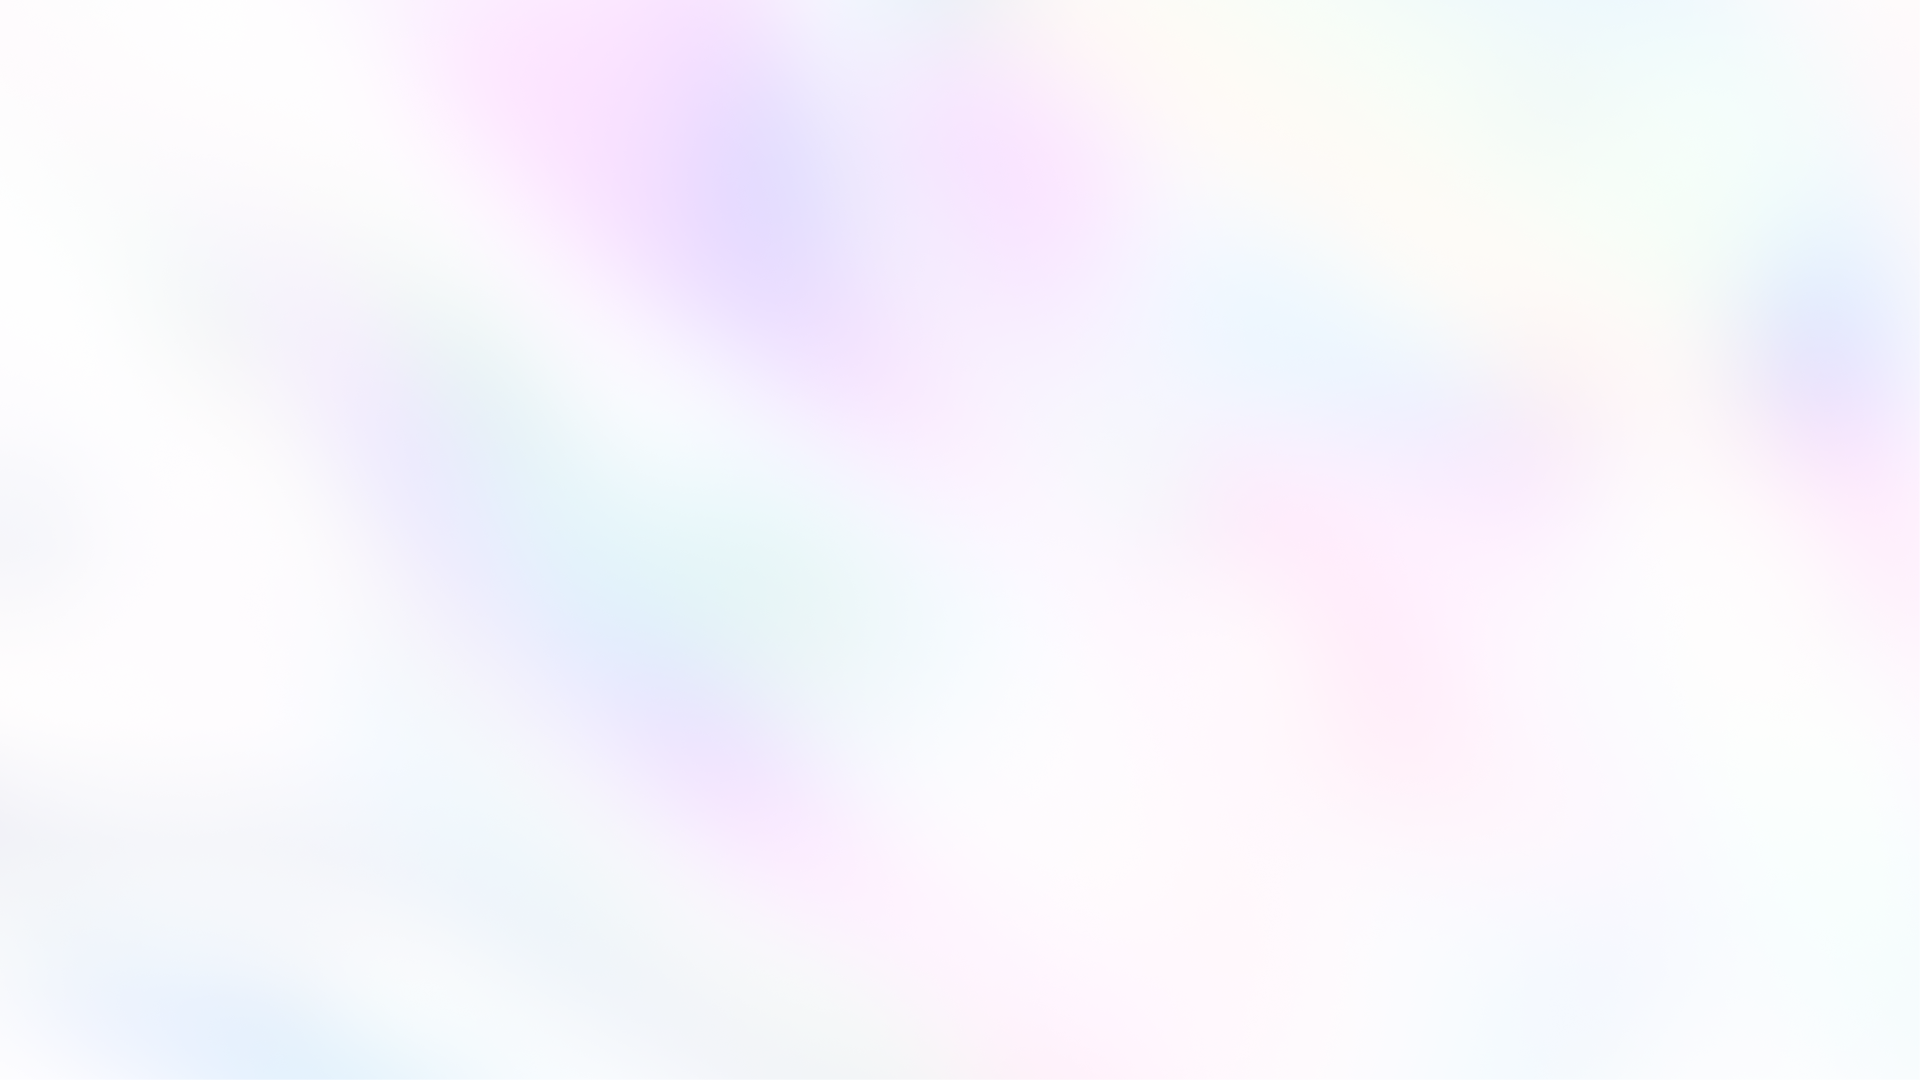
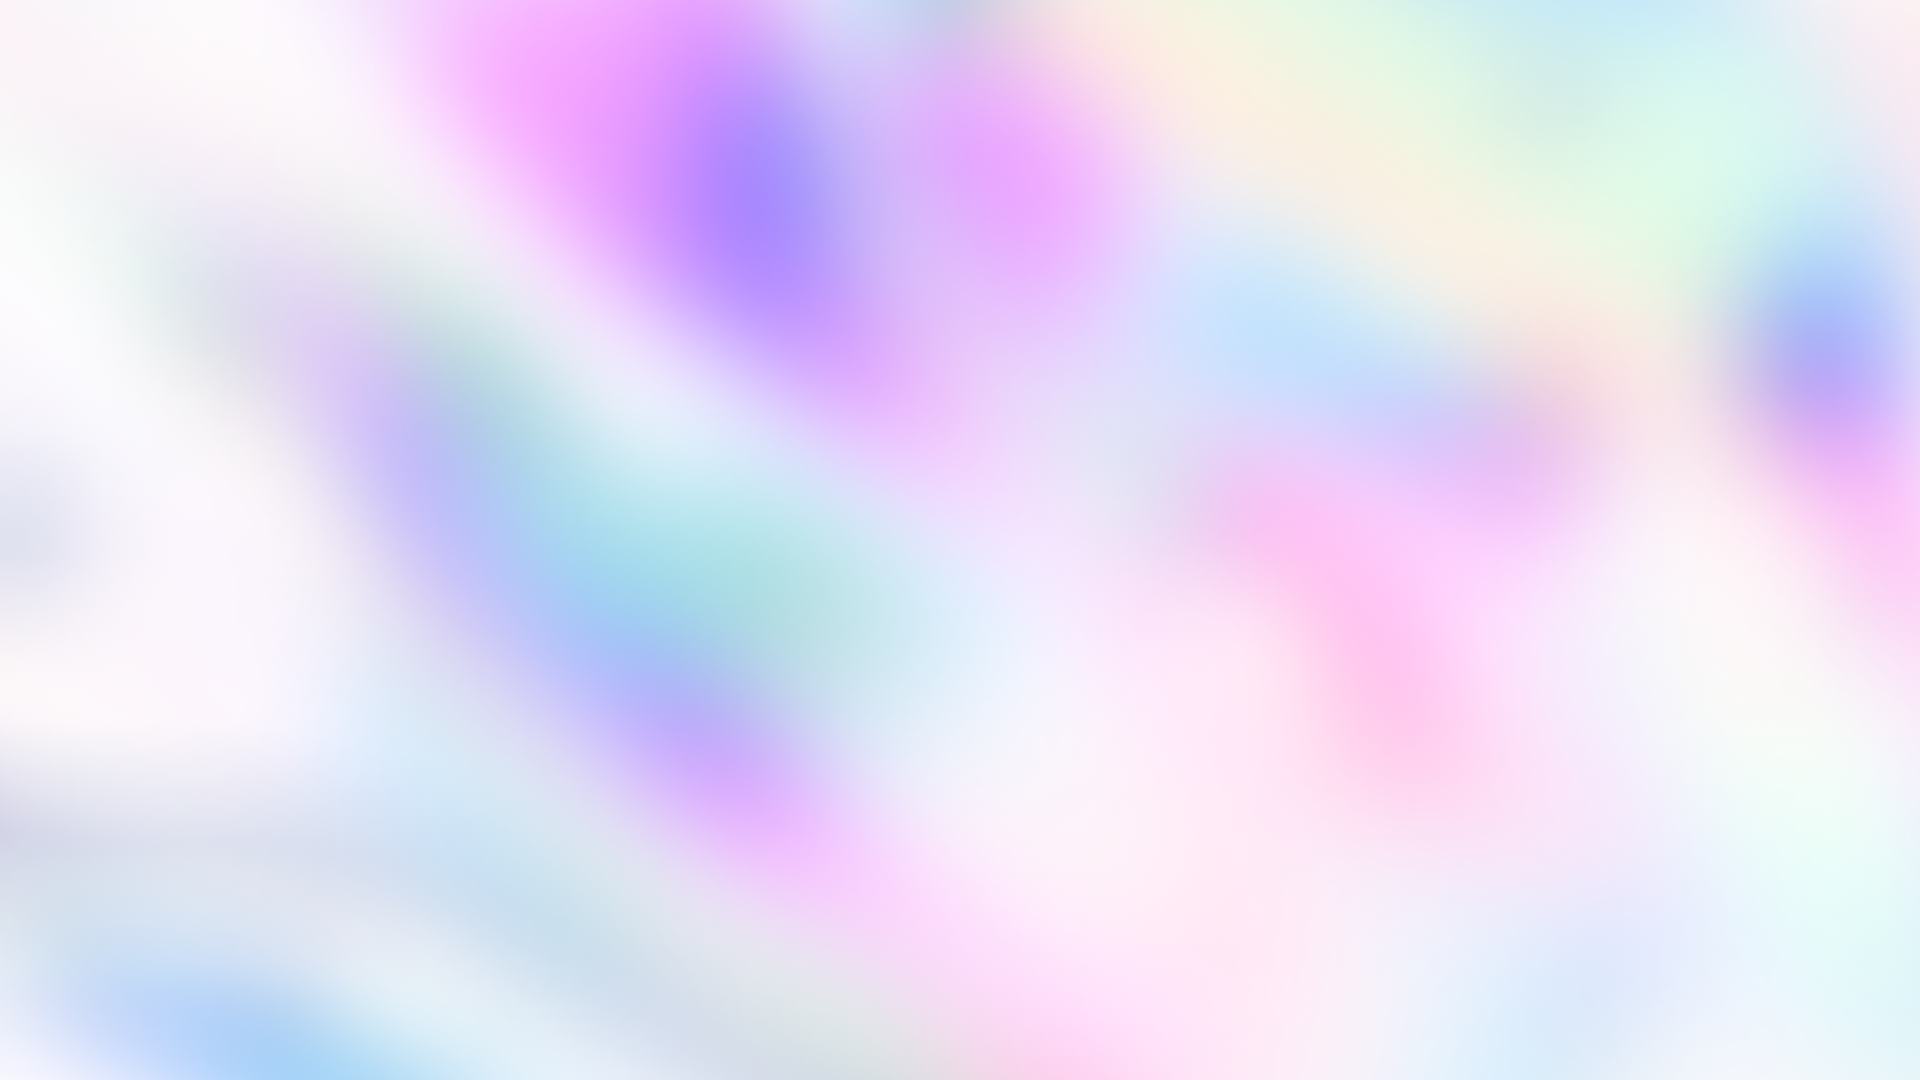
whitecode

diff --git a/src/components/carousal-second/CarousalSecond.js b/src/components/carousal-second/CarousalSecond.js
@@ -8,7 +8,7 @@ const options = {
   responsiveClass: true,
   nav: false,
   dots: false,
-  autoplay: false,
+  autoplay: true,
   loop: true,
   // center: true,
   navText: false,
@@ -64,7 +64,8 @@ export default class CarousalSecond extends React.Component {
           <div className="road-test-box">
             <div className="road-text-box-content">
               <div className="road-test-icon">
-                <img src="assets/images/road-test1.png" alt="" />
+                <img className="road-test-icon1" src="assets/images/road-test1.png" alt="" />
+                <img className="road-test-icon2" src="assets/images/road-test-2.png" alt="" />
               </div>
               <h4>Q1 - 2022</h4>
               <p className="mb-0">
@@ -78,7 +79,8 @@ export default class CarousalSecond extends React.Component {
           <div className="road-test-box">
             <div className="road-text-box-content">
               <div className="road-test-icon">
-                <img src="assets/images/road-test1.png" alt="" />
+              <img className="road-test-icon1" src="assets/images/road-test1.png" alt="" />
+                <img className="road-test-icon2" src="assets/images/road-test-2.png" alt="" />
               </div>
               <h4>Q2 - 2022</h4>
               <p className="mb-0">
@@ -92,7 +94,8 @@ export default class CarousalSecond extends React.Component {
           <div className="road-test-box">
             <div className="road-text-box-content">
               <div className="road-test-icon">
-                <img src="assets/images/road-test1.png" alt="" />
+              <img className="road-test-icon1" src="assets/images/road-test1.png" alt="" />
+                <img className="road-test-icon2" src="assets/images/road-test-2.png" alt="" />
               </div>
               <h4>Q3 - 2022</h4>
               <p className="mb-0">
@@ -106,7 +109,8 @@ export default class CarousalSecond extends React.Component {
           <div className="road-test-box">
             <div className="road-text-box-content">
               <div className="road-test-icon">
-                <img src="assets/images/road-test1.png" alt="" />
+              <img className="road-test-icon1" src="assets/images/road-test1.png" alt="" />
+                <img className="road-test-icon2" src="assets/images/road-test-2.png" alt="" />
               </div>
               <h4>Q4 - 2022</h4>
               <p className="mb-0">
@@ -120,7 +124,8 @@ export default class CarousalSecond extends React.Component {
           <div className="road-test-box">
             <div className="road-text-box-content">
               <div className="road-test-icon">
-                <img src="assets/images/road-test1.png" alt="" />
+              <img className="road-test-icon1" src="assets/images/road-test1.png" alt="" />
+                <img className="road-test-icon2" src="assets/images/road-test-2.png" alt="" />
               </div>
               <h4>Q5 - 2022</h4>
               <p className="mb-0">
@@ -134,7 +139,8 @@ export default class CarousalSecond extends React.Component {
           <div className="road-test-box">
             <div className="road-text-box-content">
               <div className="road-test-icon">
-                <img src="assets/images/road-test1.png" alt="" />
+              <img className="road-test-icon1" src="assets/images/road-test1.png" alt="" />
+                <img className="road-test-icon2" src="assets/images/road-test-2.png" alt="" />
               </div>
               <h4>Q6 - 2022</h4>
               <p className="mb-0">

diff --git a/src/pages/home/home.css b/src/pages/home/home.css
@@ -94,10 +94,14 @@
 .banner-inner ul li img {
     width: 30px;
 }
-.white-bg{
+.white-bg, .cat-white, .metapets-games-left-img-white{
     display: none;
 }
-
+.white-bg, .banner-img {
+    position: absolute;
+    top: 0;
+    right: -23px;
+}
 /*----------*/
 section.metapets-games {
     position: relative;
@@ -489,8 +493,39 @@ section.numquam-eius.numquam-eius2 {
     backdrop-filter: blur(94px);
     filter: blur(17px);
 }
-.roadmap .owl-item:not(.active) + .owl-item.active + .owl-item.active{
-    background: red;  
+img.road-test-icon2 {
+    display: none !important;
+}
+.roadmap .owl-item:not(.active) + .owl-item.active + .owl-item.active .road-text-box-content{
+    opacity: 1;
+    border: 5px solid transparent;
+    overflow: hidden;
+ }
+.roadmap .owl-item:not(.active) + .owl-item.active + .owl-item.active .road-text-box-content:after{
+    position: absolute;
+    content: "";
+    top:0;
+    right:0;
+    width: 120px;
+    height: 120px;
+    background: #F213FF;
+    filter: blur(80px);
+ }
+.roadmap .owl-item:not(.active) + .owl-item.active + .owl-item.active .road-text-box-content:before{
+    position: absolute;
+    content: "";
+    bottom:0;
+    left:0;
+    width: 100px;
+    height: 100px;
+    background: #0BEFD8;
+    filter: blur(80px);
+ }
+.roadmap .owl-item:not(.active) + .owl-item.active + .owl-item.active img.road-test-icon2{
+    display: block !important;
+ }
+.roadmap .owl-item:not(.active) + .owl-item.active + .owl-item.active img.road-test-icon1{
+    display: none !important;
  }
 
 /*-------@media-------*/

diff --git a/src/pages/home/Home.js b/src/pages/home/Home.js
@@ -68,17 +68,18 @@ const Home = () => {
                   </li> */}
                 </ul>
                 <div className="banner-img">
-                  <img src="assets/images/banner-img2.png" alt="" />
+                  <img className="cat-black" src="assets/images/banner-img2.png" alt="" />
+                  <img className="cat-white" src="assets/images/banner-img-3.png" alt="" />
                 </div>
               </div>
             </div>
           </div>
         </div>
         <div className="white-bg">
-          <img src="assets/images/white-banner.png" alt="" />
+          <img src="assets/images/white-banner1.png" alt="" />
         </div>
       </div>
-
+      
       <section className="metapets-games">
         <div className="container">
           <div className="row">
@@ -305,8 +306,13 @@ const Home = () => {
             <div className="col-md-6">
               <div className="metapets-games-left">
                 <img
-                  className="metapets-games-left-img"
+                  className="metapets-games-left-img metapets-games-left-img-black"
                   src="assets/images/metapets-games.png"
+                  alt=""
+                />
+                <img
+                  className="metapets-games-left-img metapets-games-left-img-white"
+                  src="assets/images/metapets-games-white.png"
                   alt=""
                 />
                 <div className="metapats-bg">

diff --git a/src/assets/css/white.css b/src/assets/css/white.css
@@ -17,7 +17,7 @@ body.white-theme{
     color: #0B0A11;
 }
 .white-theme .copy-addres {
-    background-image: linear-gradient(to left,#fff, #fff), linear-gradient(184deg,#F213FF, rgb(187, 187, 187) , #0BEFD8);
+    background-image: linear-gradient(to left,#f2f4fc, #f6f6fd), linear-gradient(184deg,#F213FF, rgb(187, 187, 187) , #0BEFD8);
 }
 .white-theme .metapets-games .metapets-games-icon a svg stop {
     stop-color: #0E0D17;
@@ -33,5 +33,29 @@ body.white-theme{
     top: -80px;
     left: 0;
     z-index: -3;
-    filter: blur(124px);
+    filter: blur(41px);
+}
+.white-theme .logo-white, .white-theme .cat-white, .white-theme .metapets-games-left-img-white{
+    display: block;
+}
+.white-theme .logo-black, .white-theme .flag-bg, .white-theme .cat-black, .white-theme .metapets-games-left-img-black, .white-theme .metapats-bg{
+    display: none;
+}
+.white-theme .flag-bg-white{
+    display: block;
+}
+.white-theme .menu-left .dropdown-toggle::after {
+    color: #000000;
+}
+.white-theme .sub-heading {
+    color: #0B0A11;
+}
+.white-theme .custom-pets-line, .white-theme section.custom-pets:before {
+    display: none;
+}
+.white-theme .numquam-eius-left p, .white-theme .parner-text p, .white-theme .home-about-left p, .white-theme .home-team-heading p {
+    color: #0B0A11;
+}
+.white-theme .road-text-box-content {
+    background-image: linear-gradient(to left,#fcfcfc , #fcfcfc), linear-gradient(145deg,#F213FF, rgb(17, 16, 27) , #0BEFD8);
 }

diff --git a/src/components/header/Header.js b/src/components/header/Header.js
@@ -24,7 +24,8 @@ const Header = () => {
           <div className="header-inner">
             <div className="logo">
               <Link to={"/home"}>
-                <img src="assets/images/logo.svg" alt="logo" />
+                <img className="logo-black" src="assets/images/logo.svg" alt="logo" />
+                <img className="logo-white" src="assets/images/logo-white.svg" alt="logo" />
               </Link>
             </div>
             <div className="menu">
@@ -124,14 +125,16 @@ const Header = () => {
                     </ThemeContext.Consumer>
                     <div className="toggle-switch"></div>
                   </label>
-                  <img
+                  <img className="d-none"
                     src="assets/images/theme-toggle.svg"
                     alt="theme-toggle"
                   />
                 </div>
                 <div className="dropdown">
                   <div className="flag-img">
-                    <img src="assets/images/flag-bg.png" alt="" />
+                    <img className="flag-bg" src="assets/images/flag-bg.png" alt="" />
+                    <img className="flag-bg-white" src="assets/images/flag-bg-white.png" alt="" />
+                    
                   </div>
                   <button
                     className=" dropdown-toggle"

diff --git a/src/components/header/header.css b/src/components/header/header.css
@@ -39,6 +39,9 @@ a.nav-link {
     padding: 0;
     transition: all .4s;
 }
+.logo-black{
+    display: none;
+}
 a.nav-link:hover {
     background: -webkit-linear-gradient(180deg, #0BEFD8, #5959DF );
     -webkit-background-clip: text;
@@ -79,6 +82,10 @@ a.nav-link:hover {
     position: absolute;
     z-index: 0;
 }
+.flag-bg-white{
+    display: none;
+}
+
 .theme-toggle {
     padding-top: 0;
     cursor: pointer;
